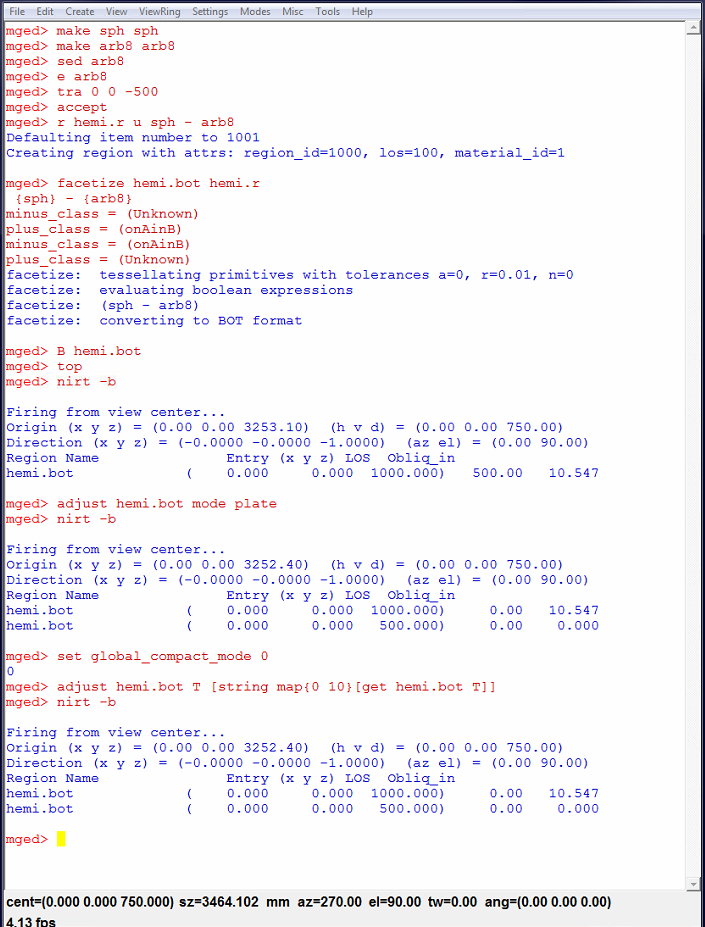
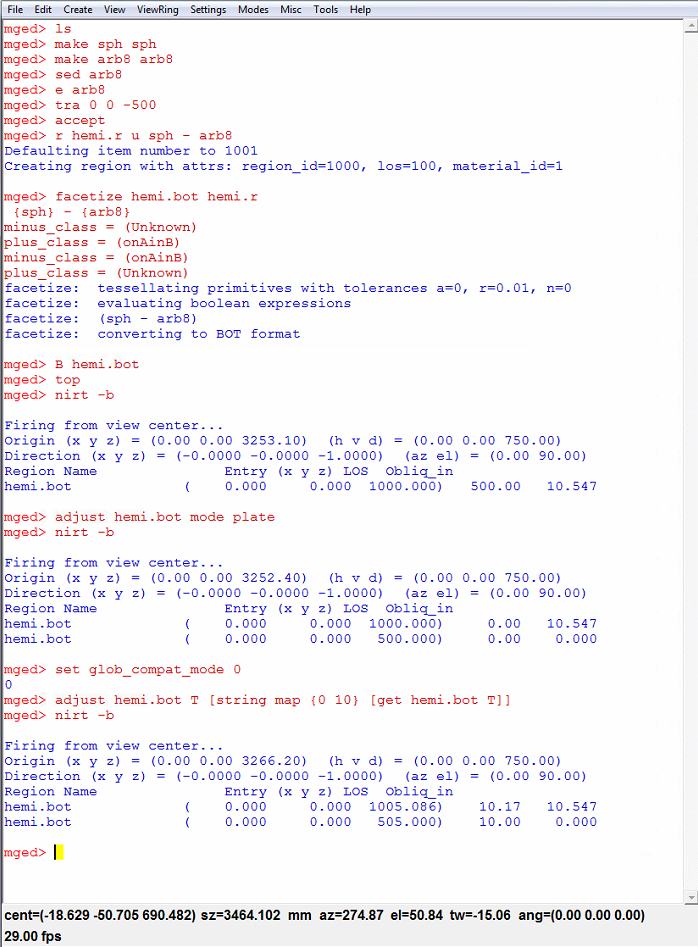
update nirt result of the hemi

Changed region(s): [[0.0, 0.0, 1.0, 1.0], [0.692, 0.2718, 0.7521, 0.3323], [0.7822, 0.2718, 0.8123, 0.3323]]

diff --git a/gsoc2016/week_12/index.html b/gsoc2016/week_12/index.html
@@ -41,6 +41,19 @@
 			<h3>Several tests</h3>
 			<p><img src='hemi_brlcad.png' /></p>
 			
+			<table border='1'>
+				<tr>
+					<td>nirt 1</td>
+					<td>nirt 2</td>
+					<td>nirt 3</td>
+				</tr>
+				<tr>
+					<td width='500'><a href='nirt_1.png'><img src='nirt_1.png' /></a></td>
+					<td width='500'><a href='nirt_2.png'><img src='nirt_2.png' /></a></td>
+					<td width='500'><a href='nirt_3.png'><img src='nirt_3.png' /></a></td>
+				</tr>
+			</table>
+			
     </section>
 	</div>
 </body>
